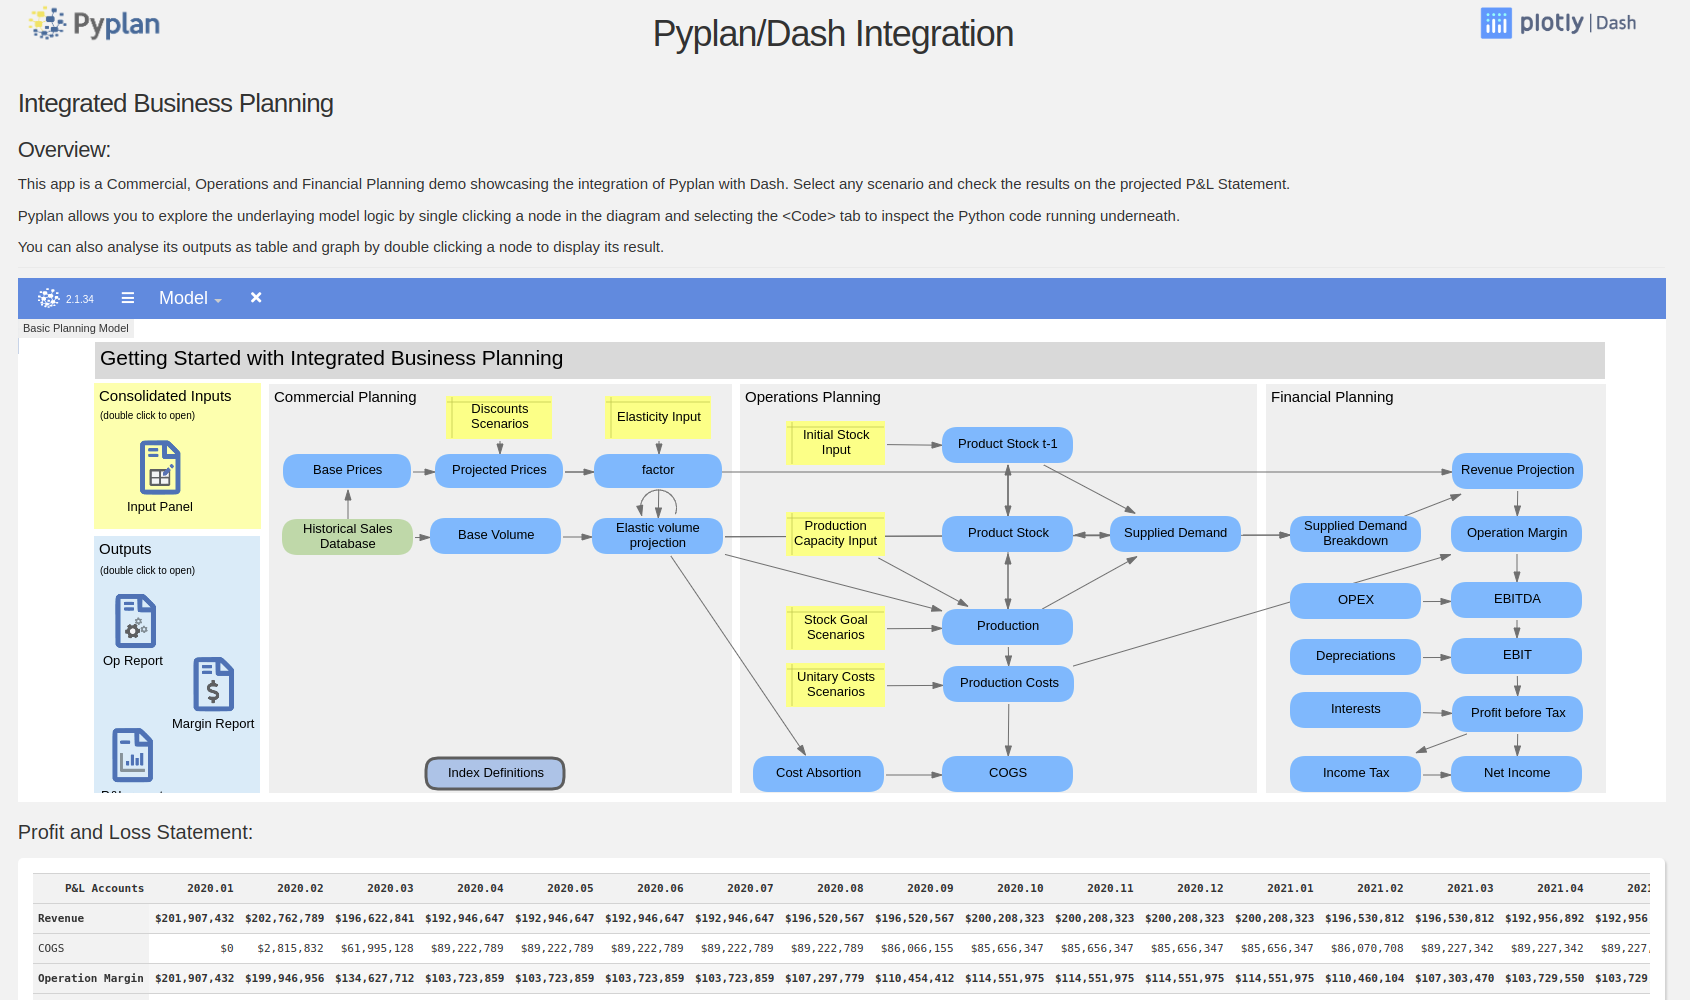
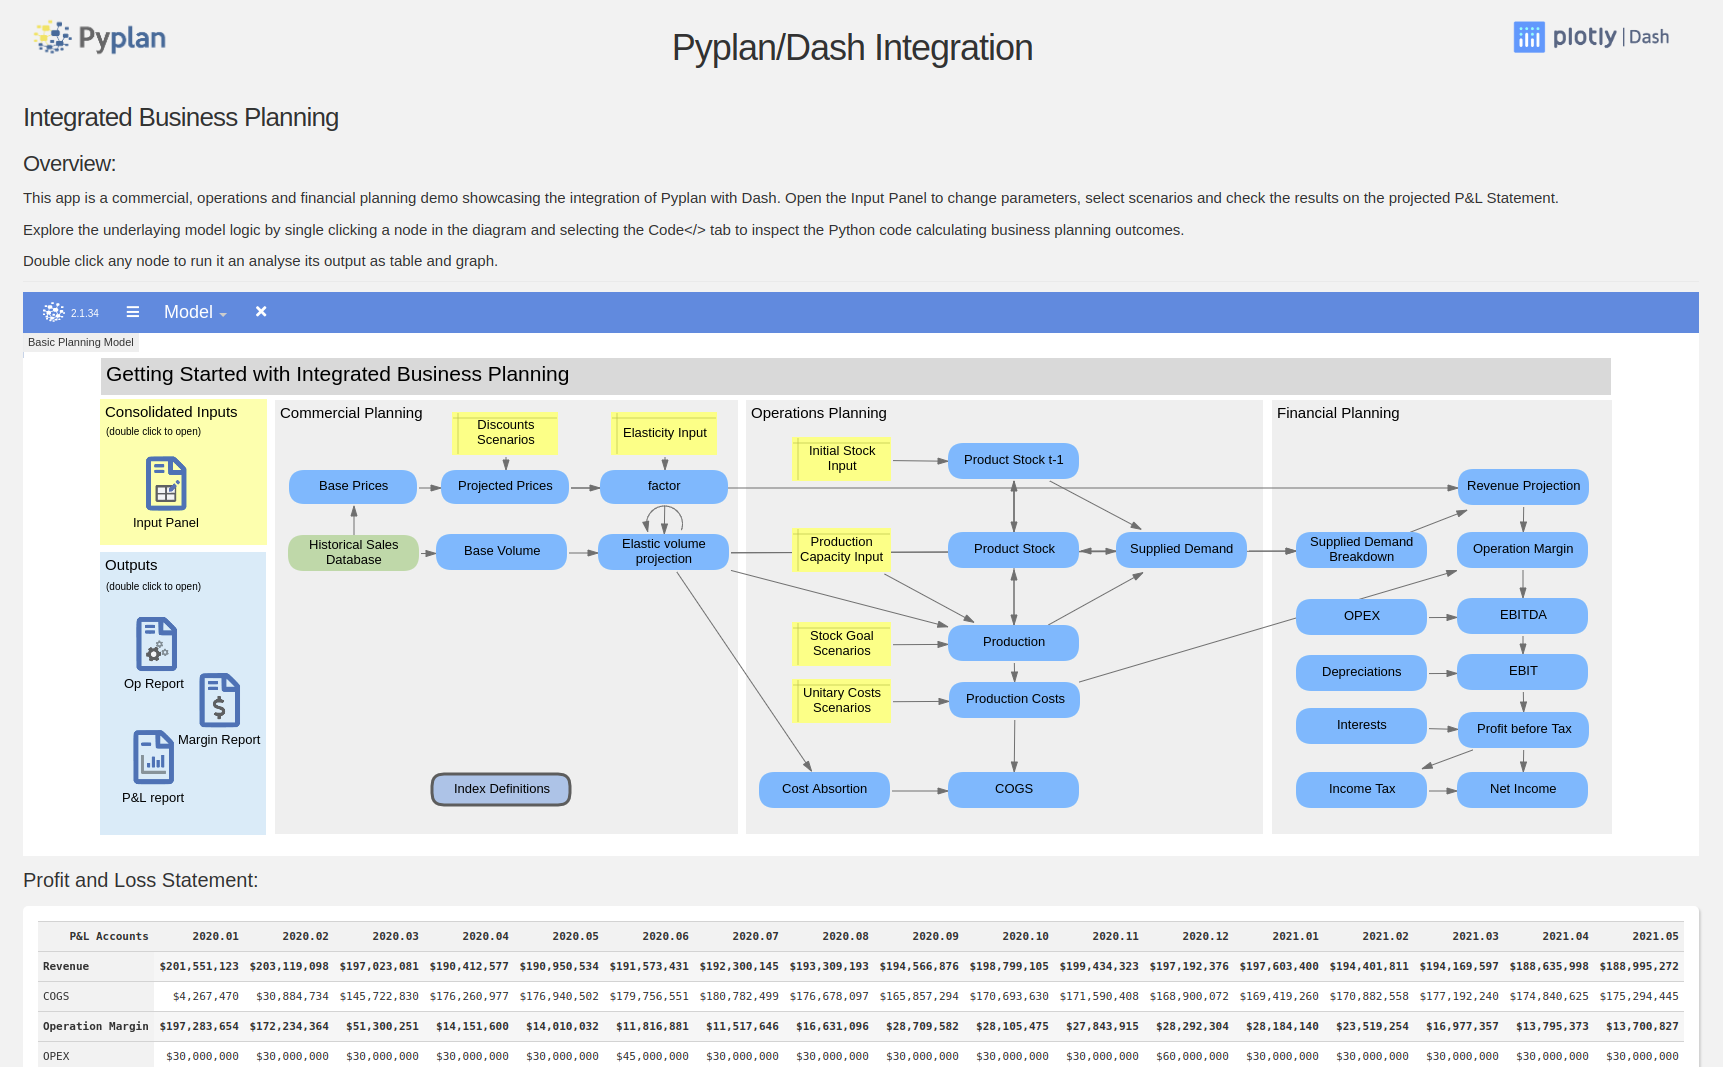
Update text and images

diff --git a/app.py b/app.py
@@ -69,10 +69,9 @@ def serve_layout():
                     [
                         html.H4("Integrated Business Planning"),
                         html.H5("Overview:"),
-                        html.P("This app is a Commercial, Operations and Financial Planning demo showcasing the integration of Pyplan with Dash. Select any scenario and check the results on the projected P&L Statement."),
-                        html.P("Pyplan allows you to explore the underlaying model logic by single clicking a node in the diagram and selecting the <Code> tab to inspect the Python code running underneath."),
-                        html.P("You can also analyse its outputs as table and graph by double clicking a node to display its result.")
-                          
+                        html.P("This app is a commercial, operations and financial planning demo showcasing the integration of Pyplan with Dash.  Open the Input Panel to change parameters, select scenarios and check the results on the projected P&L Statement."),
+                        html.P("Explore the underlaying model logic by single clicking a node in the diagram and selecting the Code</> tab to inspect the Python code calculating business planning outcomes."),
+                        html.P("Double click any node to run it an analyse its output as table and graph.")
                     ], className="twelve columns"),
             ], className="row title"),
         html.Div(

diff --git a/README.md b/README.md
@@ -2,14 +2,12 @@
 
 ## Overview
 
-This app is a Commercial, Operations and Financial Planning demo showcasing the integration of Pyplan with Dash. Select any scenario and check the results on the projected P&L Statement.
+This app is a commercial, operations and financial planning demo showcasing the integration of Pyplan with Dash.  Open the Input Panel to change parameters, select scenarios and check the results on the projected P&L Statement.
 
-Pyplan allows you to explore the underlaying model logic by single clicking a node in the diagram and selecting the 'Code' tab to inspect the Python code running underneath.
-
-You can also analyse its outputs as table and graph by double clicking a node to display its result.
+Explore the underlaying model logic by single clicking a node in the diagram and selecting the Code</> tab to inspect the Python code calculating business planning outcomes.
+Double click any node to run it an analyse its output as table and graph.
 
 ![App screenshot](screenshots/pyplan_dash_integration_640.png)
-
 
 ## Run it locally
 
